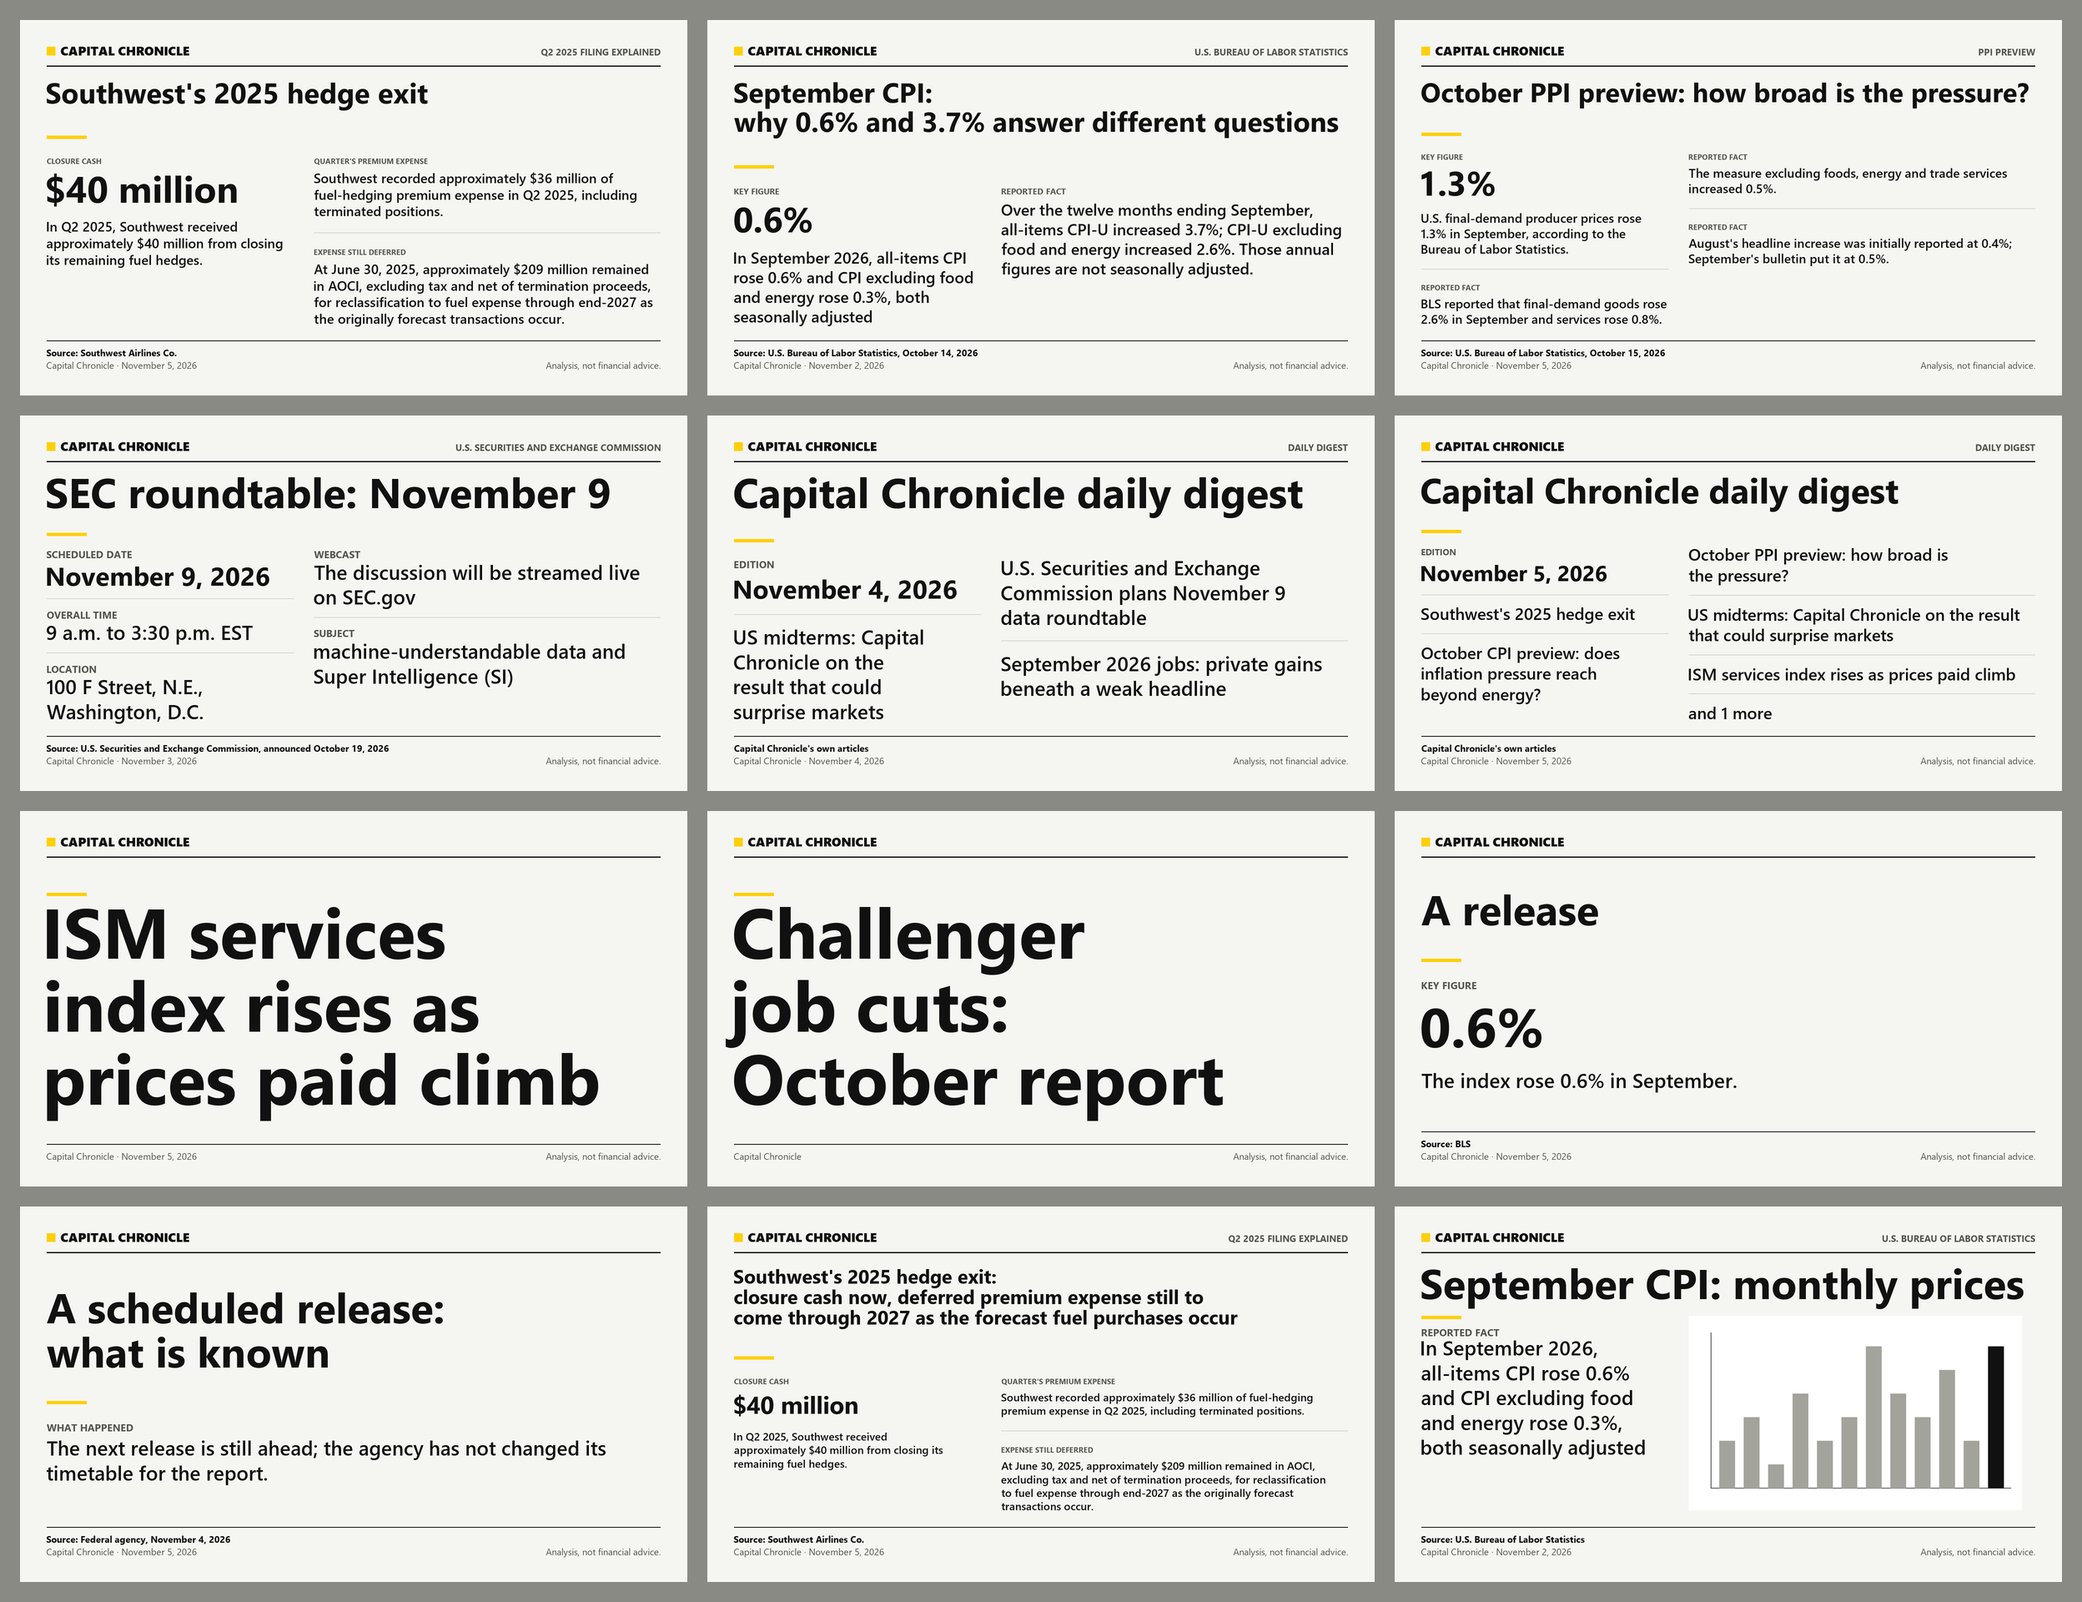
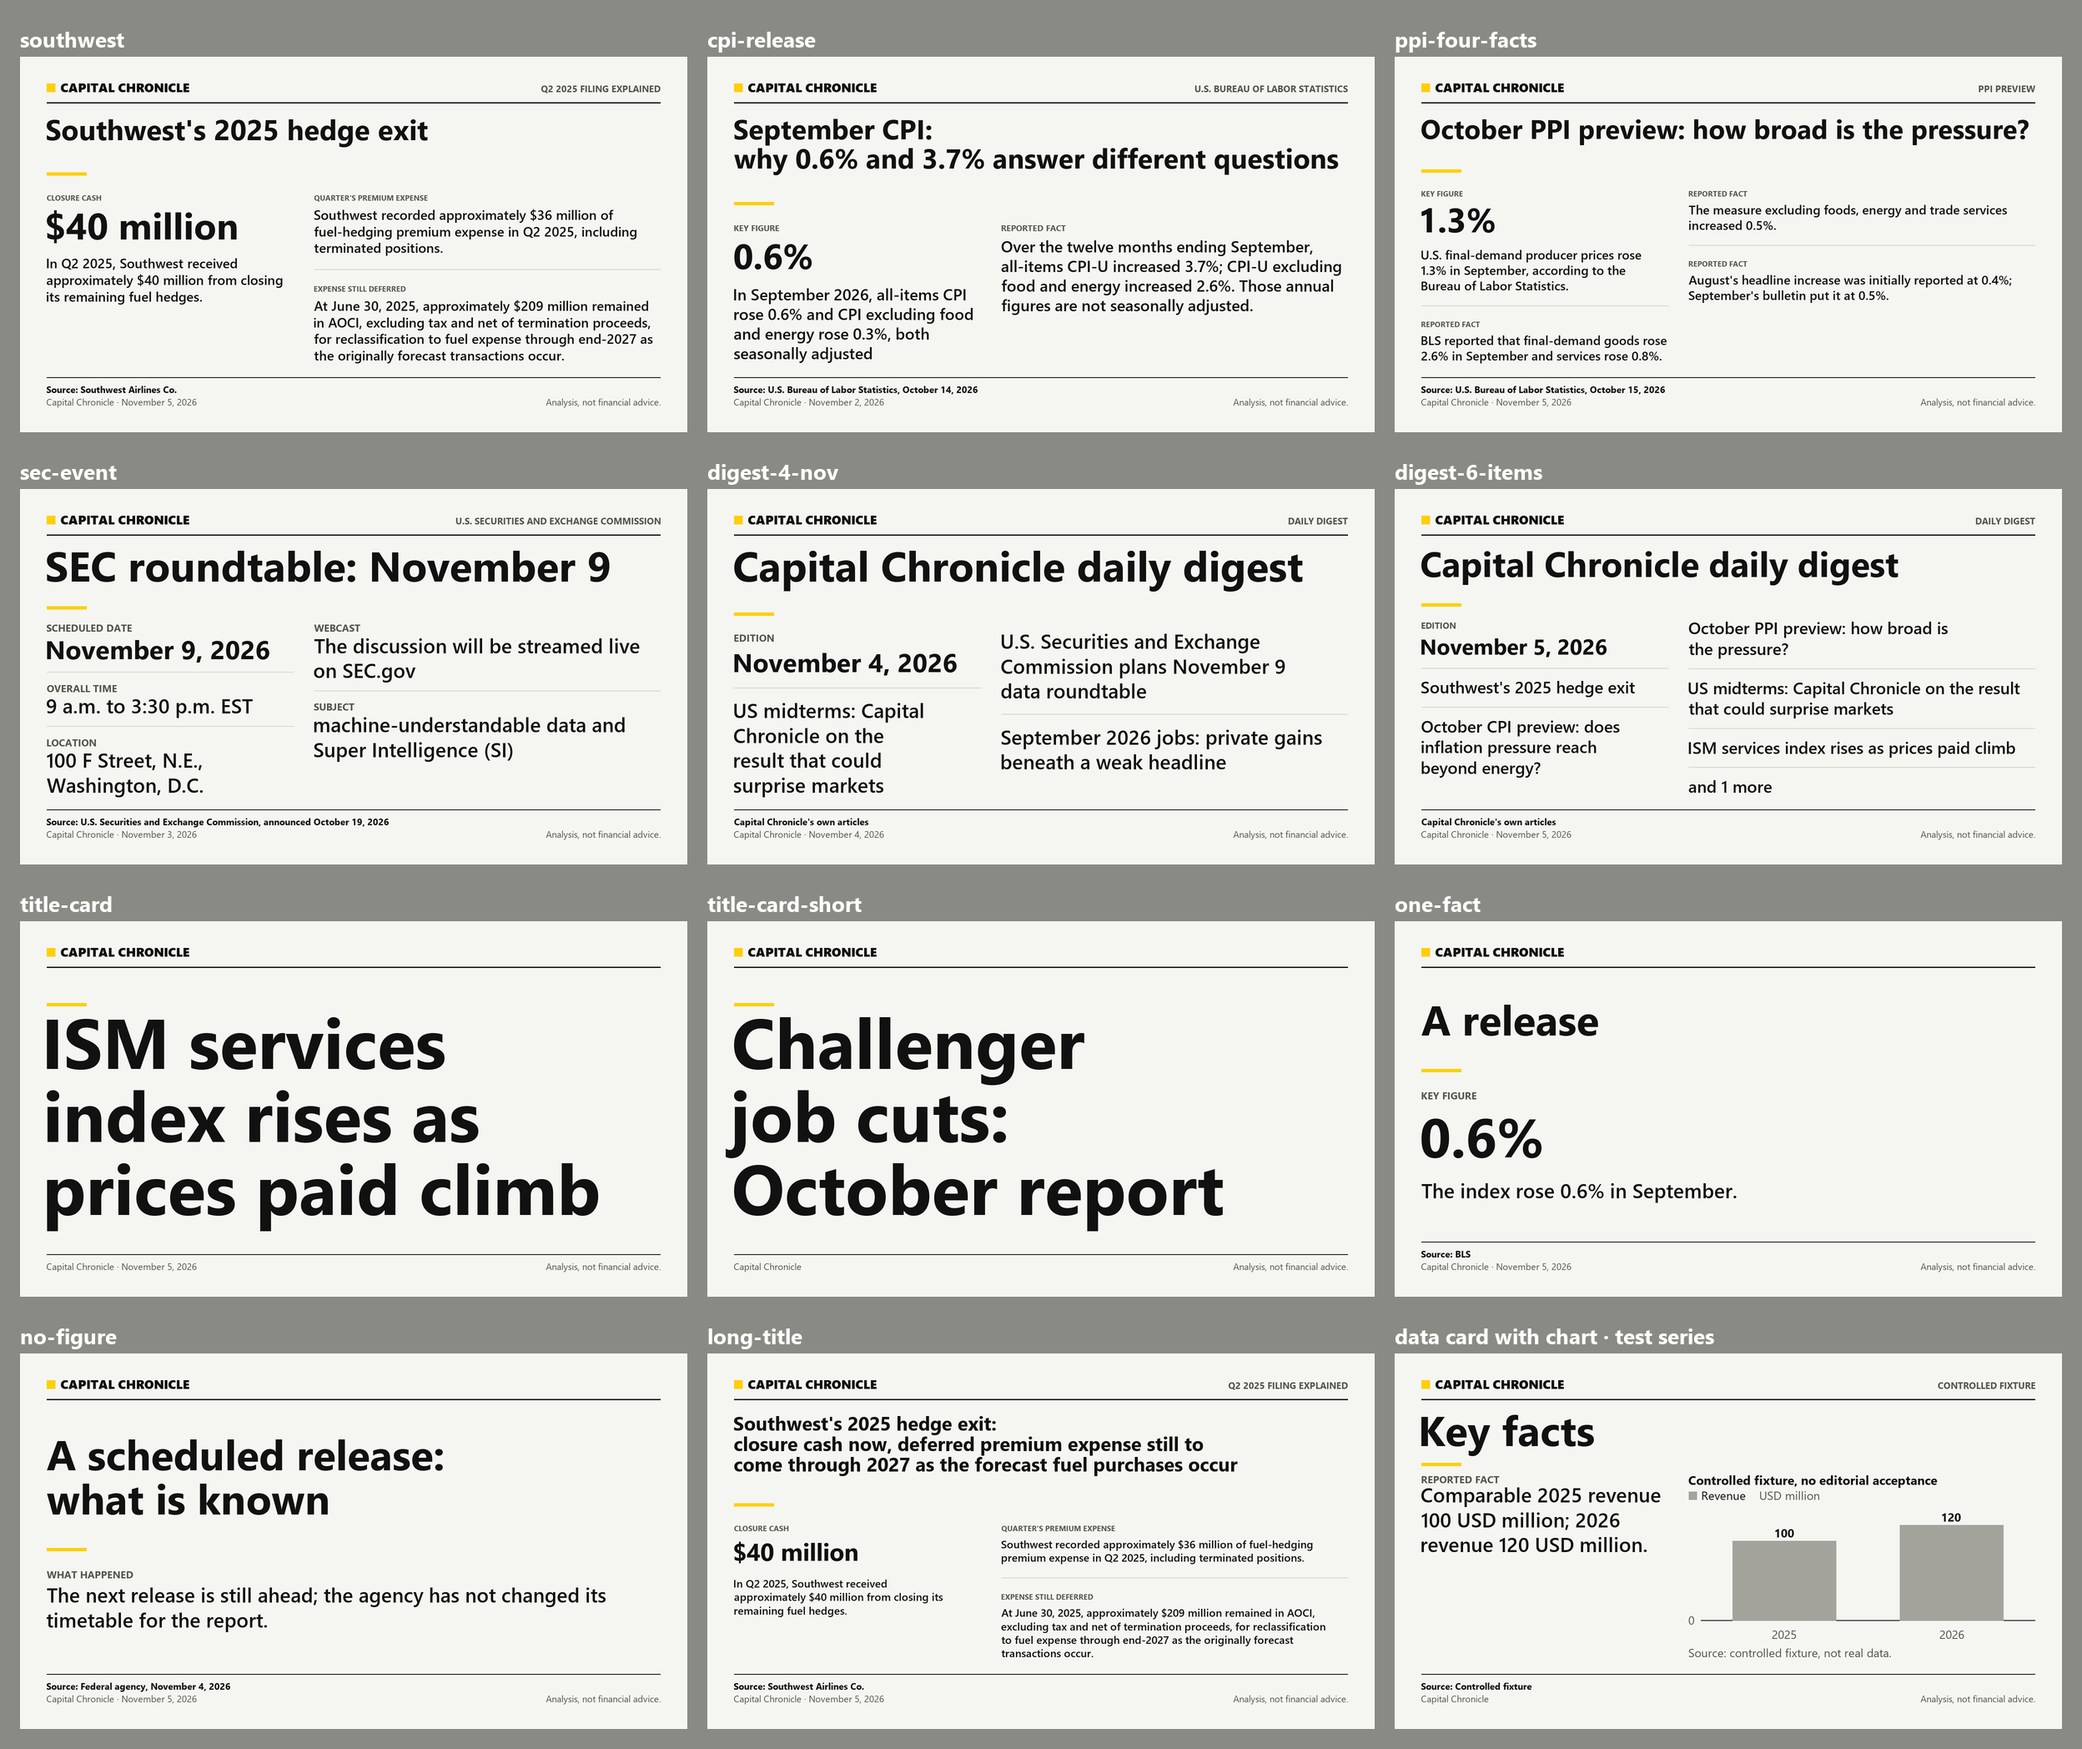
CC-290 docs: the sheets show the data-card chart from the real path, not a stand-in
The all-cases sheets' mini-chart cell was a stand-in drawn by render_cc290.py.
It is now a card from build_post_data_card with the chart owner, fed the
repository's admitted test series (no admitted public-domain series in our
run files has every value stated in its post) and captioned "test series";
every cell is captioned.

New: compare/data-card-chart-test-series-{1080x1350,1600x900}.png (before:
the shrunk 1440x1040 chart; after: drawn for its slot) and
after/data-card-chart-test-series-1080x1350.png (the data-card path's own
file). The other compare sheets regenerate byte-identical.

diff --git a/docs/publisher/CC-290/render_cc290.py b/docs/publisher/CC-290/render_cc290.py
@@ -6,8 +6,10 @@
 renderer), read from git; "after" is the working tree. Writes out_dir/before, out_dir/after,
 out_dir/compare (before left, after right) and two overview sheets of every case.
 The Southwest facts are the 5 Nov post's admitted text; the PPI facts are the 5 Nov PPI
-preview's BLS sentences; "one-fact", "no-figure", "long-title" and "mini-chart" are layout
-fixtures (the chart is a plain stand-in drawn here).
+preview's BLS sentences; "one-fact", "no-figure" and "long-title" are layout fixtures.
+"data-card-chart-test-series" is a real card from the data-card path (build_post_data_card
+with an admitted series and its chart owner), fed the repository's test series because no
+admitted public-domain series in our run files has every value stated in its post.
 """
 from __future__ import annotations
 
@@ -58,7 +60,7 @@ def digest(titles, label):
                 key_value=label, source_line="Capital Chronicle's own articles", dated_line="Capital Chronicle · " + label)
 
 
-def cases(module, chart):
+def cases(module):
     key = module.key_from_facts
     return {
         "southwest": dict(title="Southwest's 2025 hedge exit", facts=SOUTHWEST, kicker="Q2 2025 filing explained",
@@ -94,22 +96,28 @@ def cases(module, chart):
                            facts=SOUTHWEST, kicker="Q2 2025 filing explained", key_label="Historical balance date",
                            key_value="June 30, 2025", source_line="Source: Southwest Airlines Co.",
                            dated_line="Capital Chronicle · November 5, 2026"),
-        "mini-chart": dict(title="September CPI: monthly prices", facts=CPI[:1], kicker="U.S. Bureau of Labor Statistics",
-                           source_line="Source: U.S. Bureau of Labor Statistics", image_path=chart,
-                           dated_line="Capital Chronicle · November 2, 2026"),
     }
 
 
-def stand_in_chart(path: Path) -> str:
-    image = Image.new("RGB", (1200, 700), "#FFFFFF")
-    draw = ImageDraw.Draw(image)
-    draw.line((80, 620, 1160, 620), fill="#55554F", width=3)
-    draw.line((80, 60, 80, 620), fill="#55554F", width=3)
-    for i, value in enumerate([0.2, 0.3, 0.1, 0.4, 0.2, 0.3, 0.6, 0.4, 0.3, 0.5, 0.2, 0.6]):
-        x0 = 110 + i * 88
-        draw.rectangle((x0, 620 - int(value * 850), x0 + 56, 620), fill="#111111" if i == 11 else "#A3A39C")
-    image.save(path)
-    return str(path)
+def real_chart_card(out: Path):
+    """The live data-card path with the repository's admitted test series (CC-144 owner)."""
+    sys.path.insert(0, str(ROOT / "tests"))
+    from test_reader_first_data_journalism_v1 import chart_packet
+    from live_contentops.post_visuals_v1 import build_post_data_card
+    series, docs = chart_packet()
+    docs[0].update(source_id="SOURCE_1", underlying_reuse_classification="governed_government_public_domain",
+                   rights_evidence_sha256="d" * 64)
+    text = docs[0]["canonical_content_text"]
+    claims = [{"claim_id": "revenue", "source_id": "SOURCE_1", "claim_text": text, "support_excerpt": text}]
+    card = build_post_data_card({"substack_body_markdown": text}, claims, docs, output_dir=out / "data-card-path",
+                                series_packet=series)
+    packet = card["data_card_packet"]
+    publishers = list(dict.fromkeys(f["publisher"] for f in packet["facts"]))
+    # The spec _render_card builds for this packet (no article title: "Key facts").
+    spec = dict(title=packet.get("title") or "Key facts", facts=[("Reported fact", f["text"]) for f in packet["facts"]],
+                kicker=" · ".join(publishers), source_line="Source: " + ", ".join(publishers),
+                dated_line=packet.get("dated_line") or "Capital Chronicle")
+    return Path(card["path"]), packet["series_asset"], spec
 
 
 def load_before(rev: str, out: Path):
@@ -145,14 +153,17 @@ def compare(title, left: Path, right: Path, out: Path):
     canvas.save(out, optimize=True)
 
 
-def sheet(paths, out: Path, columns: int):
-    images = [Image.open(p).convert("RGB") for p in paths]
-    w, h = images[0].width // 2, images[0].height // 2
-    rows = (len(images) + columns - 1) // columns
-    canvas = Image.new("RGB", (columns * (w + 24) + 24, rows * (h + 24) + 24), "#8A8A84")
-    for index, image in enumerate(images):
-        canvas.paste(image.resize((w, h), Image.Resampling.LANCZOS),
-                     (24 + index % columns * (w + 24), 24 + index // columns * (h + 24)))
+def sheet(cells, out: Path, columns: int):
+    """Every case at half size, each under its own caption."""
+    images = [(caption, Image.open(p).convert("RGB")) for caption, p in cells]
+    w, h = images[0][1].width // 2, images[0][1].height // 2
+    head, rows = 44, (len(images) + columns - 1) // columns
+    canvas = Image.new("RGB", (columns * (w + 24) + 24, rows * (h + head + 24) + 24), "#8A8A84")
+    draw = ImageDraw.Draw(canvas)
+    for index, (caption, image) in enumerate(images):
+        x, y = 24 + index % columns * (w + 24), 24 + index // columns * (h + head + 24)
+        draw.text((x, y + 4), caption, font=font(26), fill="#FFFFFF")
+        canvas.paste(image.resize((w, h), Image.Resampling.LANCZOS), (x, y + head))
     canvas.save(out, optimize=True)
 
 
@@ -164,18 +175,31 @@ def main():
     sys.path.insert(0, str(ROOT))
     from live_contentops import fact_card_design_v1 as after
     before = load_before(rev, out)
-    chart = stand_in_chart(out / "stand-in-chart.png")
+    card_path, chart, chart_spec = real_chart_card(out)
+    chart_case = "data-card-chart-test-series"
     for size_name, size in (("1080x1350", after.INSTAGRAM_SIZE), ("1600x900", after.X_SIZE)):
-        rendered = []
-        for name, kwargs in cases(after, chart).items():
+        cells = []
+        for name, kwargs in cases(after).items():
             left, right = out / "before" / f"{name}-{size_name}.png", out / "after" / f"{name}-{size_name}.png"
-            before.render_fact_card(left, before.CardSpec(**cases(before, chart)[name]), size=size)
+            before.render_fact_card(left, before.CardSpec(**cases(before)[name]), size=size)
             result = after.render_fact_card(right, after.CardSpec(**kwargs), size=size)
             compare(f"{name} · {size_name}", left, right, out / "compare" / f"{name}-{size_name}.png")
-            rendered.append(right)
+            cells.append((name, right))
             print(name, size_name, "hero", result["hero"], "facts", result["facts_shown"], "/", result["facts_given"],
                   "at", result["facts_size"], "px")
-        sheet(rendered, out / f"all-cases-after-{size_name}.png", 4 if size_name == "1080x1350" else 3)
+        # The data card with its chart: "before" shrank the chart owner's 1440x1040 picture into
+        # the slot; "after" draws the same bound chart for the slot. The 1080x1350 card is the
+        # data-card path's own file; the X size is the same spec rendered at 1600x900.
+        left, right = out / "before" / f"{chart_case}-{size_name}.png", out / "after" / f"{chart_case}-{size_name}.png"
+        before.render_fact_card(left, before.CardSpec(**chart_spec, image_path=chart["path"]), size=size)
+        if size == after.INSTAGRAM_SIZE:
+            right.write_bytes(card_path.read_bytes())
+        else:
+            after.render_fact_card(right, after.CardSpec(**chart_spec, chart=chart), size=size)
+        compare(f"{chart_case} · {size_name}", left, right, out / "compare" / f"{chart_case}-{size_name}.png")
+        cells.append(("data card with chart · test series", right))
+        print(chart_case, size_name, "chart", chart["editorial_data_packet"]["title"])
+        sheet(cells, out / f"all-cases-after-{size_name}.png", 4 if size_name == "1080x1350" else 3)
 
 
 if __name__ == "__main__":
